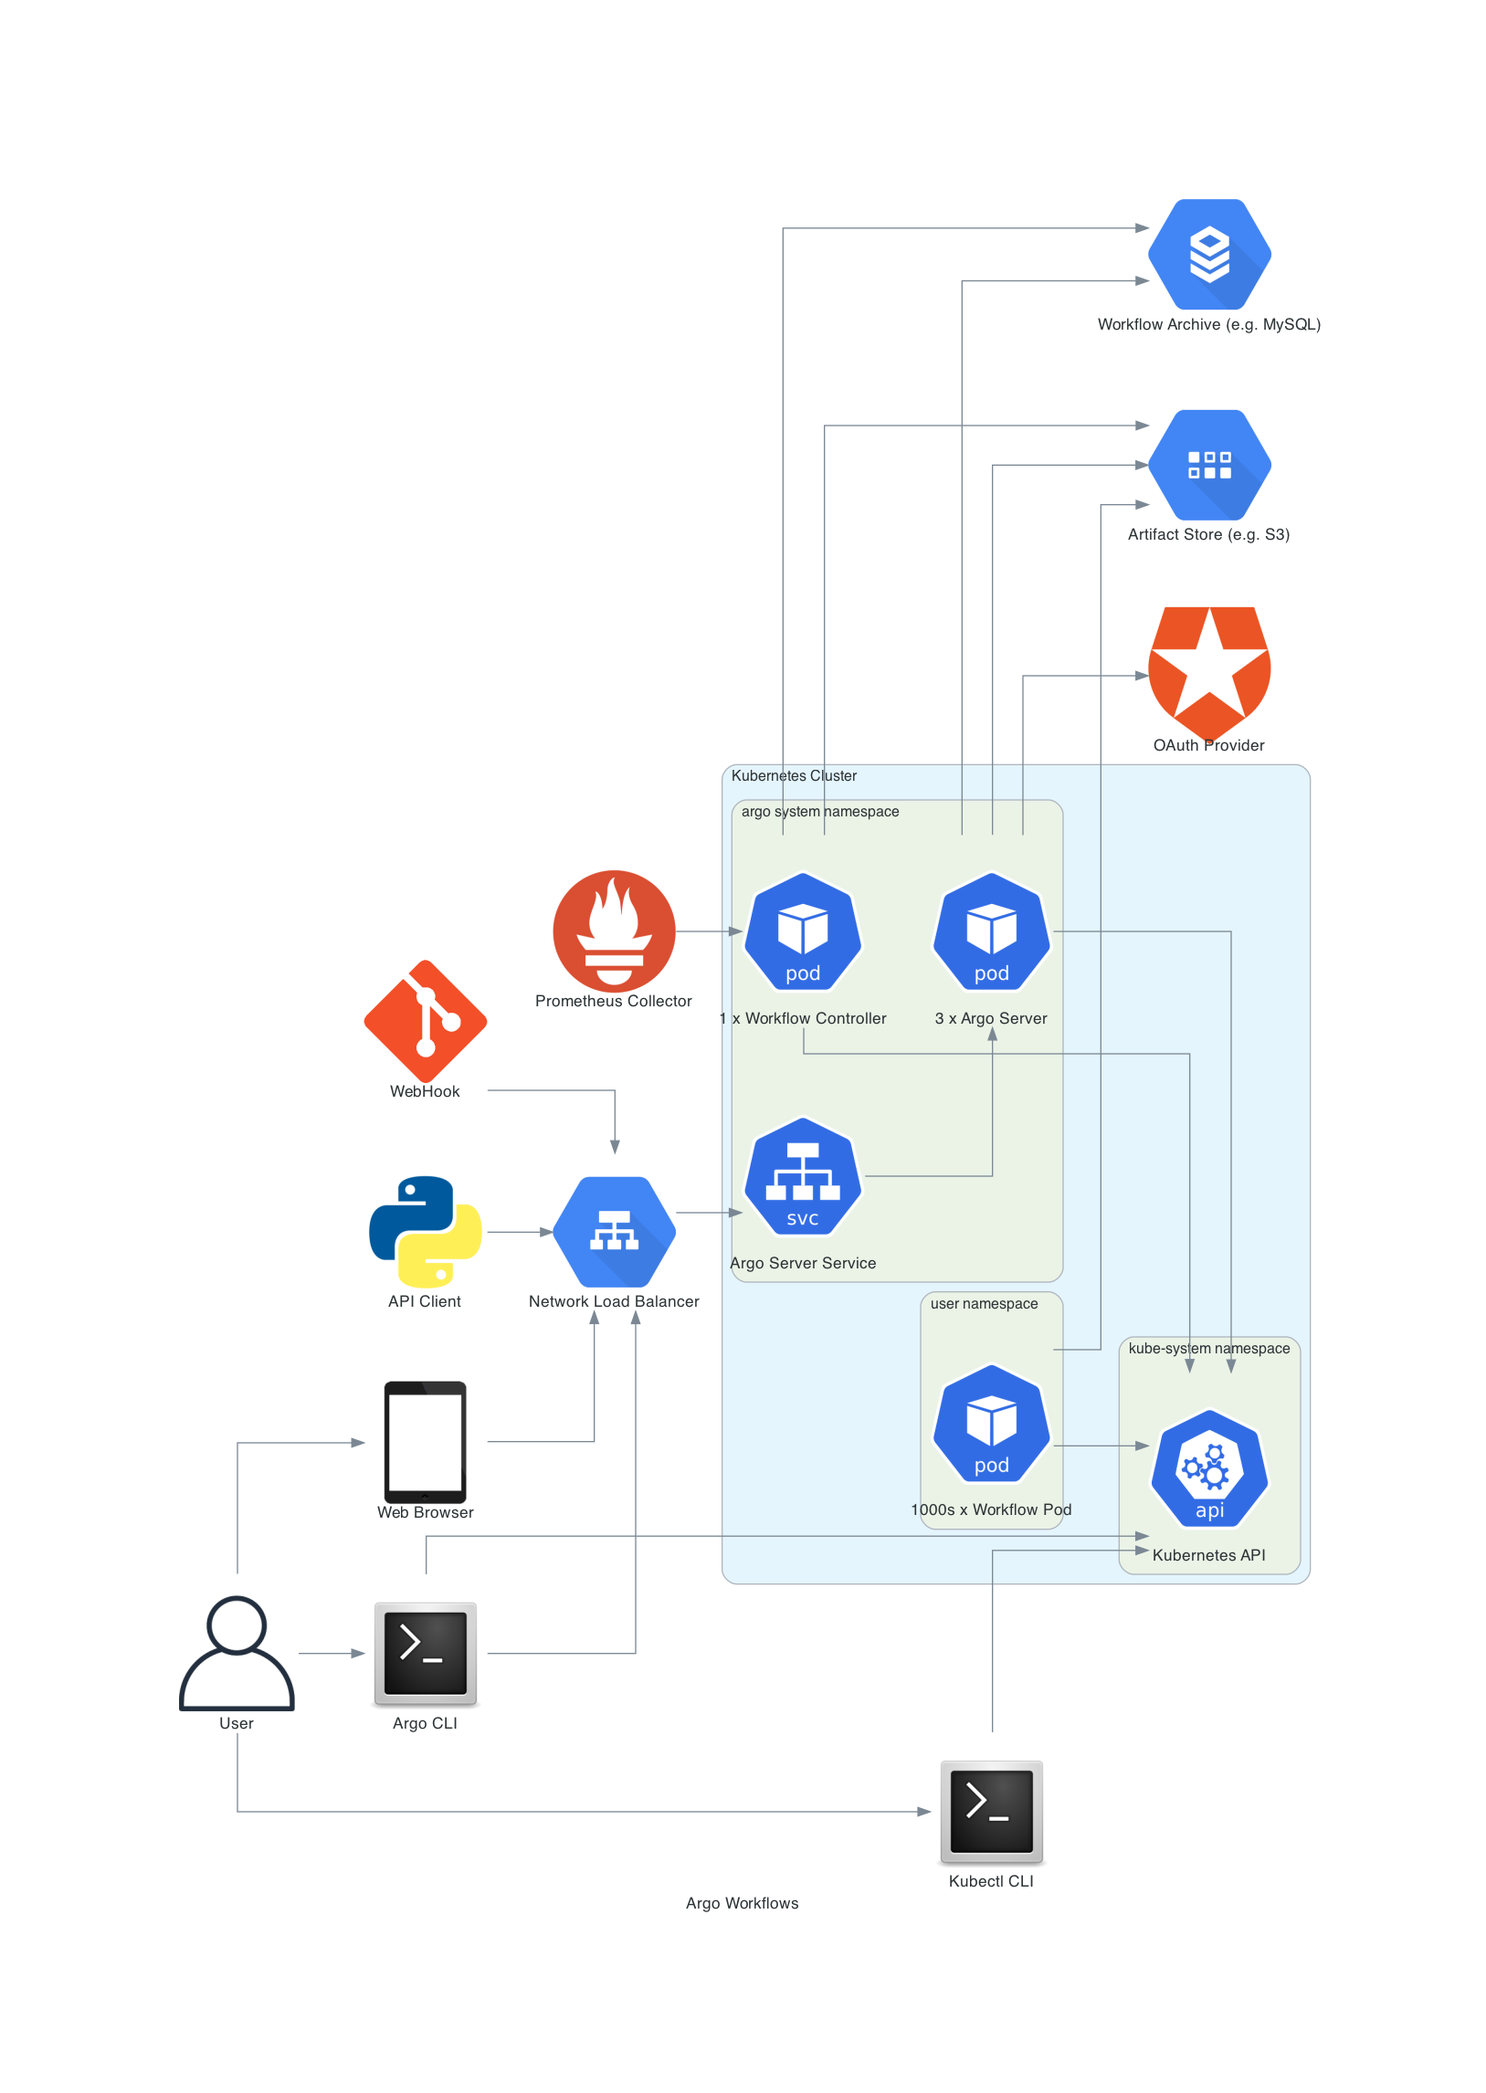
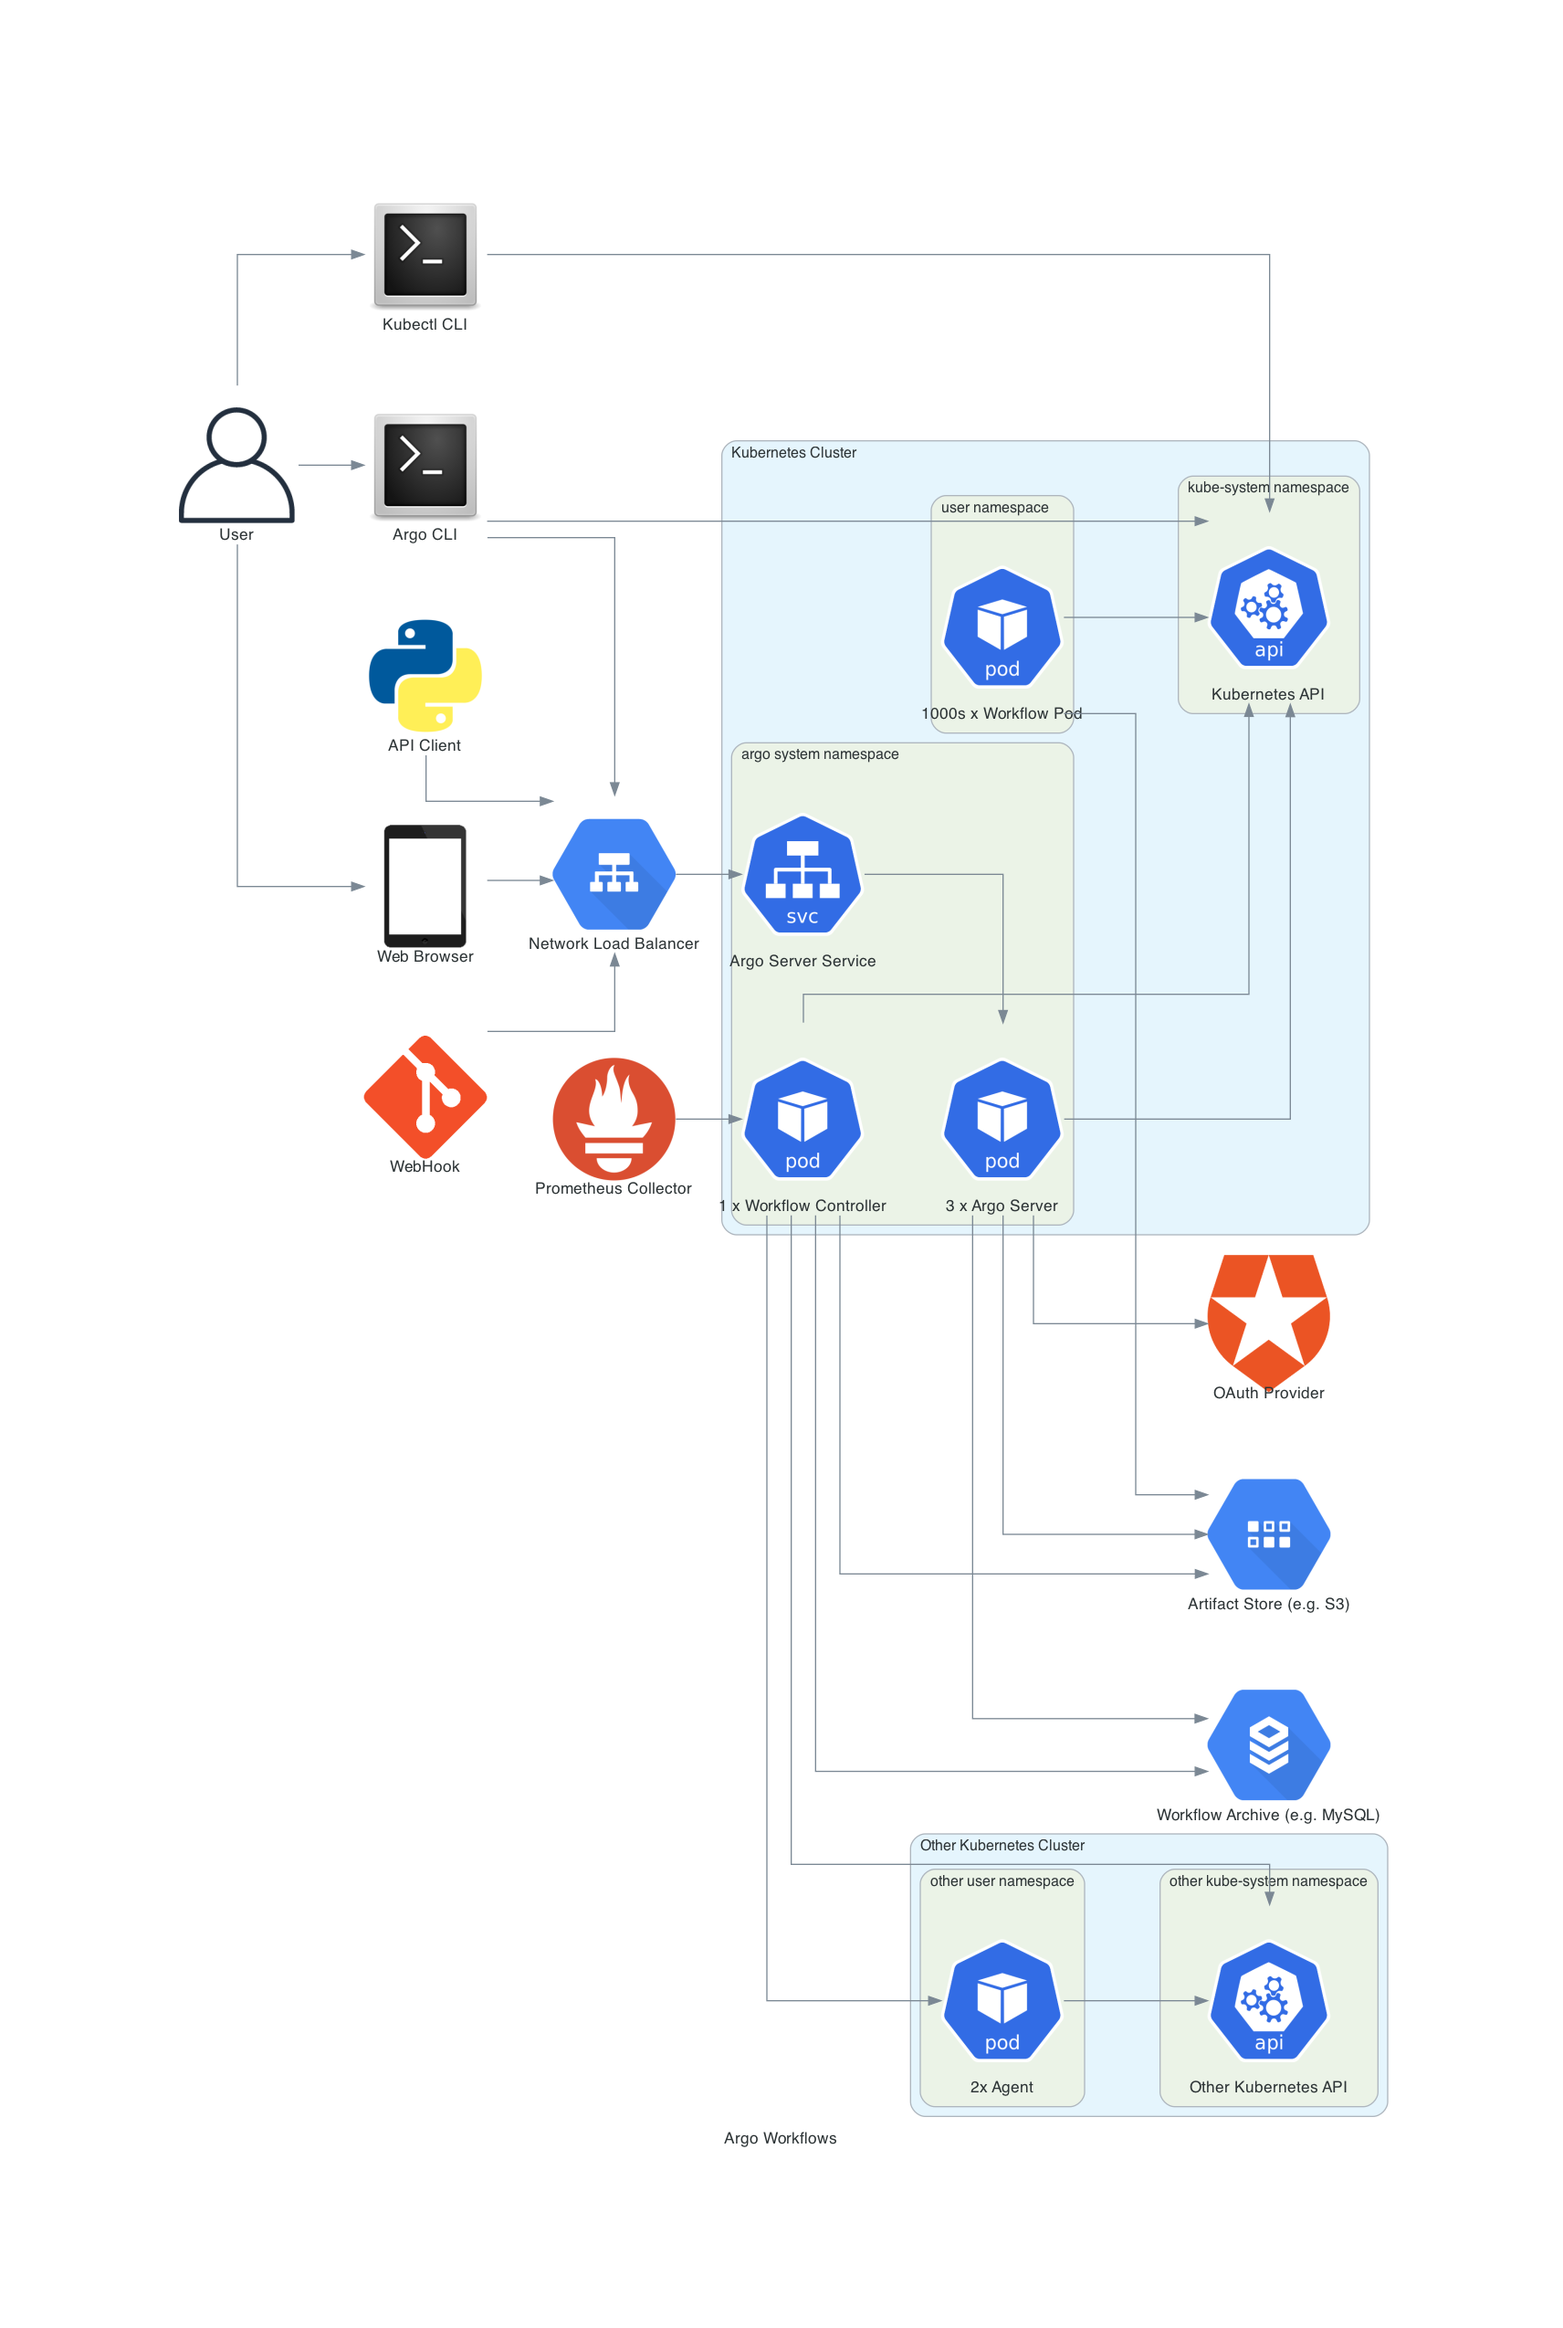
multic:  M docs/assets/diagram.png

diff --git a/hack/diagram/main.go b/hack/diagram/main.go
@@ -17,6 +17,7 @@ func main() {
 	}
 
 	kubeCluster := diagram.NewGroup("kubernetes-cluster").Label("Kubernetes Cluster")
+	otherKubeCluster := diagram.NewGroup("other-kubernetes-cluster").Label("Other Kubernetes Cluster")
 
 	user := apps.Client.User(diagram.NodeLabel("User"))
 	browser := generic.Device.Tablet(diagram.NodeLabel("Web Browser"))
@@ -30,6 +31,8 @@ func main() {
 	argoServer := k8s.Compute.Pod(diagram.NodeLabel("3 x Argo Server"))
 	workflowController := k8s.Compute.Pod(diagram.NodeLabel("1 x Workflow Controller"))
 	k8sapi := k8s.Controlplane.Api(diagram.NodeLabel("Kubernetes API"))
+	otherk8sapi := k8s.Controlplane.Api(diagram.NodeLabel("Other Kubernetes API"))
+	agent := k8s.Compute.Pod(diagram.NodeLabel("2x Agent"))
 	workflowArchive := gcp.Database.Sql(diagram.NodeLabel("Workflow Archive (e.g. MySQL)"))
 	workflowPod := k8s.Compute.Pod(diagram.NodeLabel("1000s x Workflow Pod"))
 	storage := gcp.Database.Datastore(diagram.NodeLabel("Artifact Store (e.g. S3)"))
@@ -47,6 +50,14 @@ func main() {
 	kubeCluster.NewGroup("kube-system").
 		Label("kube-system namespace").
 		Add(k8sapi)
+
+	otherKubeCluster.NewGroup("other-user-namespace").
+		Label("other user namespace").
+		Add(agent)
+
+	otherKubeCluster.NewGroup("other-kube-system").
+		Label("other kube-system namespace").
+		Add(otherk8sapi)
 
 	d.Connect(user, browser, diagram.Forward()).Group(kubeCluster)
 	d.Connect(user, argoCLI, diagram.Forward()).Group(kubeCluster)
@@ -68,6 +79,9 @@ func main() {
 	d.Connect(argoServer, k8sapi, diagram.Forward()).Group(kubeCluster)
 	d.Connect(argoServer, workflowArchive, diagram.Forward()).Group(kubeCluster)
 	d.Connect(workflowController, workflowArchive, diagram.Forward()).Group(kubeCluster)
+	d.Connect(workflowController, otherk8sapi, diagram.Forward()).Group(kubeCluster)
+	d.Connect(workflowController, agent, diagram.Forward()).Group(kubeCluster)
+	d.Connect(agent, otherk8sapi, diagram.Forward()).Group(otherKubeCluster)
 
 	if err := d.Render(); err != nil {
 		panic(err)
